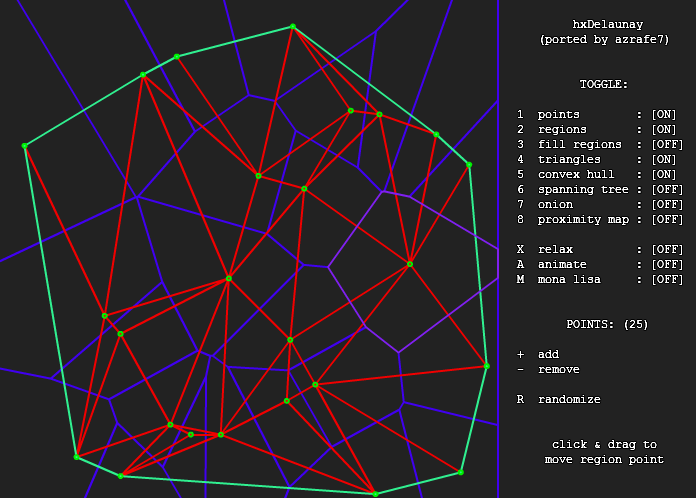
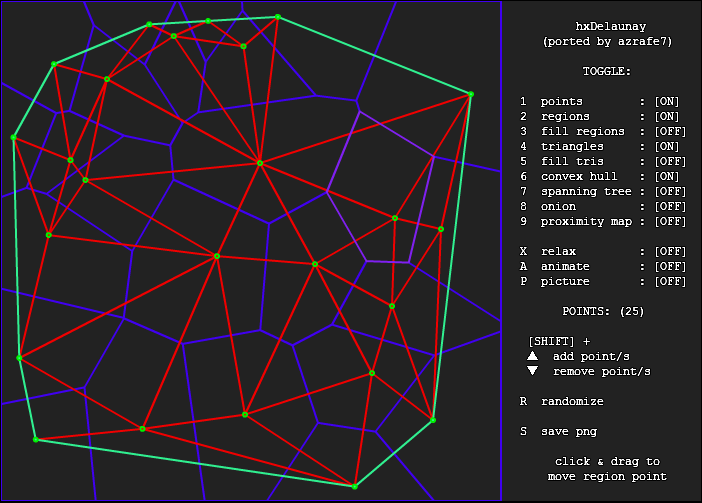
Update demo screenshot too

Changed region(s): [[0.0, 0.0, 1.0, 1.0], [0.7543, 0.0301, 0.9655, 0.0904], [0.6336, 0.9337, 0.6638, 0.9639]]

diff --git a/bin/html5/bin/Demo.js b/bin/html5/bin/Demo.js
@@ -952,7 +952,7 @@ $hxClasses["ApplicationMain"] = ApplicationMain;
 ApplicationMain.__name__ = ["ApplicationMain"];
 ApplicationMain.main = function() {
 	var projectName = "Demo";
-	var config = { build : "41", company : "azrafe7", file : "Demo", fps : 60, name : "Demo", orientation : "", packageName : "lib.azrafe7.hxDelaunay", version : "1.0.0", windows : [{ allowHighDPI : false, alwaysOnTop : false, antialiasing : 0, background : 2236962, borderless : false, colorDepth : 16, depthBuffer : false, display : 0, fullscreen : false, hardware : true, height : 500, hidden : false, maximized : false, minimized : false, parameters : { }, resizable : true, stencilBuffer : true, title : "Demo", vsync : false, width : 700, x : null, y : null}]};
+	var config = { build : "44", company : "azrafe7", file : "Demo", fps : 60, name : "Demo", orientation : "", packageName : "lib.azrafe7.hxDelaunay", version : "1.0.0", windows : [{ allowHighDPI : false, alwaysOnTop : false, antialiasing : 0, background : 2236962, borderless : false, colorDepth : 16, depthBuffer : false, display : 0, fullscreen : false, hardware : true, height : 500, hidden : false, maximized : false, minimized : false, parameters : { }, resizable : true, stencilBuffer : true, title : "Demo", vsync : false, width : 700, x : null, y : null}]};
 	lime_system_System.__registerEntryPoint(projectName,ApplicationMain.create,config);
 };
 ApplicationMain.create = function(config) {
@@ -3218,7 +3218,7 @@ openfl_display_Sprite.prototype = $extend(openfl_display_DisplayObjectContainer.
 	,__class__: openfl_display_Sprite
 });
 var Demo = function() {
-	this.TEXT = "         hxDelaunay \n" + "    (ported by azrafe7)\n" + "\n" + "          TOGGLE:\n\n" + " 1  points        : |POINTS|\n" + " 2  regions       : |REGIONS|\n" + " 3  fill regions  : |FILL_REGIONS|\n" + " 4  triangles     : |TRIANGLES|\n" + " 5  fill tris     : |FILL_TRIANGLES|\n" + " 6  convex hull   : |HULL|\n" + " 7  spanning tree : |TREE|\n" + " 8  onion         : |ONION|\n" + " 9  proximity map : |PROXIMITY|\n" + "\n" + " X  relax         : |RELAX|\n" + " A  animate       : |ANIMATE|\n" + " P  picture       : |PICTURE|\n" + "\n\n" + "       POINTS: (|NPOINTS|)\n\n" + "  [SHIFT] + \n" + "  ▲  add point/s\n" + "  ▼  remove point/s\n" + "\n" + " R  randomize\n" + "\n" + " S  save png\n" + "\n\n" + "      click & drag to\n" + "     move region point" + "\n";
+	this.TEXT = "         hxDelaunay \n" + "    (ported by azrafe7)\n" + "\n" + "          TOGGLE:\n\n" + " 1  points        : |POINTS|\n" + " 2  regions       : |REGIONS|\n" + " 3  fill regions  : |FILL_REGIONS|\n" + " 4  triangles     : |TRIANGLES|\n" + " 5  fill tris     : |FILL_TRIANGLES|\n" + " 6  convex hull   : |HULL|\n" + " 7  spanning tree : |TREE|\n" + " 8  onion         : |ONION|\n" + " 9  proximity map : |PROXIMITY|\n" + "\n" + " X  relax         : |RELAX|\n" + " A  animate       : |ANIMATE|\n" + " P  picture       : |PICTURE|\n" + "\n" + "       POINTS: (|NPOINTS|)\n\n" + "  [SHIFT] + \n" + "  ▲  add point/s\n" + "  ▼  remove point/s\n" + "\n" + " R  randomize\n" + "\n" + " S  save png\n" + "\n" + "      click & drag to\n" + "     move region point" + "\n";
 	this.dt = 0;
 	this.startTime = 0;
 	this.sampleImage = false;
@@ -15720,7 +15720,7 @@ var lime_utils_AssetCache = function() {
 	this.audio = new haxe_ds_StringMap();
 	this.font = new haxe_ds_StringMap();
 	this.image = new haxe_ds_StringMap();
-	this.version = 737210;
+	this.version = 468087;
 };
 $hxClasses["lime.utils.AssetCache"] = lime_utils_AssetCache;
 lime_utils_AssetCache.__name__ = ["lime","utils","AssetCache"];
